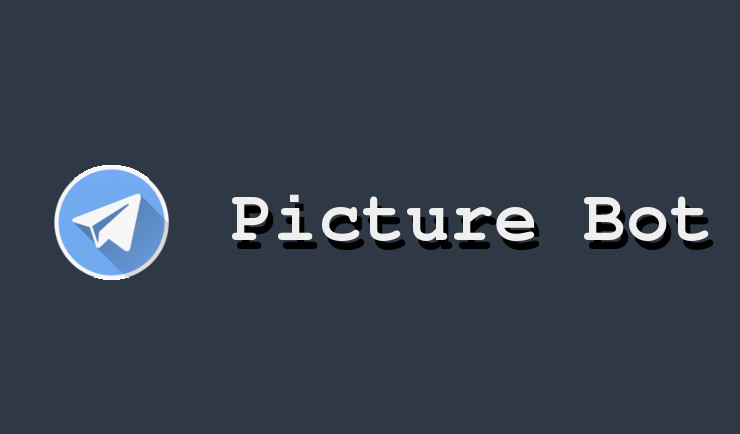
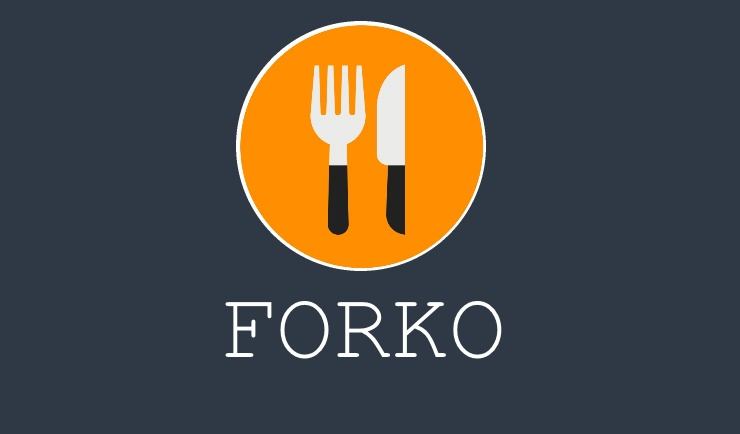
Update projects

diff --git a/index.html b/index.html
@@ -70,12 +70,12 @@
 							</article>
 							<article class="6u$ 12u$(xsmall) work-item">
 								<a href="images/fulls/04.jpg" class="image fit thumb"><img src="images/thumbs/04.jpg" alt="" /></a>
-								<h3>Picture Bot</h3>
-								<p>Picture Bot - конструктор игры "Угадай картинку", позволяет в считаные секунды сделать интересную игру и запустить ее в виде бота для telegram.</p>
+								<h3>Forko</h3>
+								<p>Forko - Интелектуальная система поиска мест общественного питания в городе, формирующая поисковую выдачу на основе предпочтений пользователя.</p>
 							</article>
 						</div>
 						<ul class="actions">
-							<li><a href="https://github.com/alxmamaev?tab=repositories" class="button">Все работы</a></li>
+							<li><a href="https://github.com/alxmamaev?tab=repositories" class="button">Все проекты</a></li>
 						</ul>
 					</section>
 					
@@ -85,6 +85,7 @@
 						<ul>
 							<li>Python3</li>
 							<li>SkitLearn</li>
+							<li>Pandas</li>
 						 	<li>Разработка backend для сайтов на Flask</li>
 						 	<li>Разработка ботов для Telegram</li>
 							<li>Пайка, схемотехника</li>
@@ -107,8 +108,6 @@
 
 
 			</div>
-
-
 		<!-- Footer -->
 			<footer id="footer">
 				<ul class="icons">
